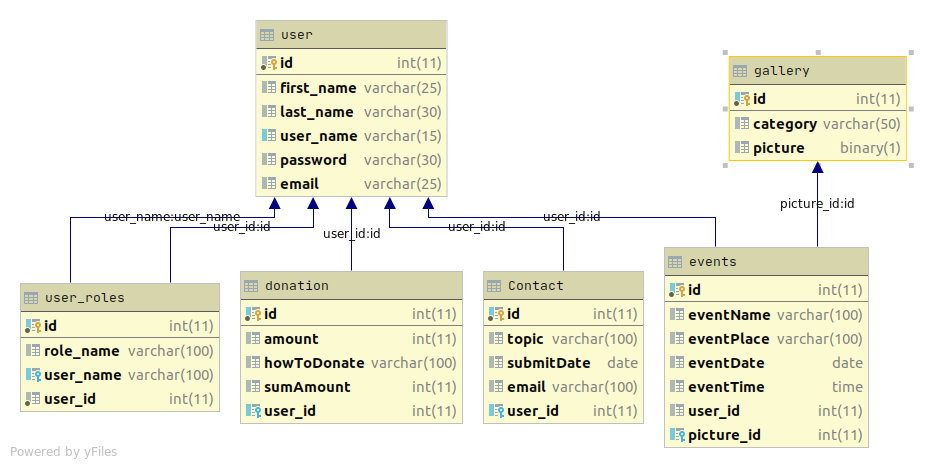
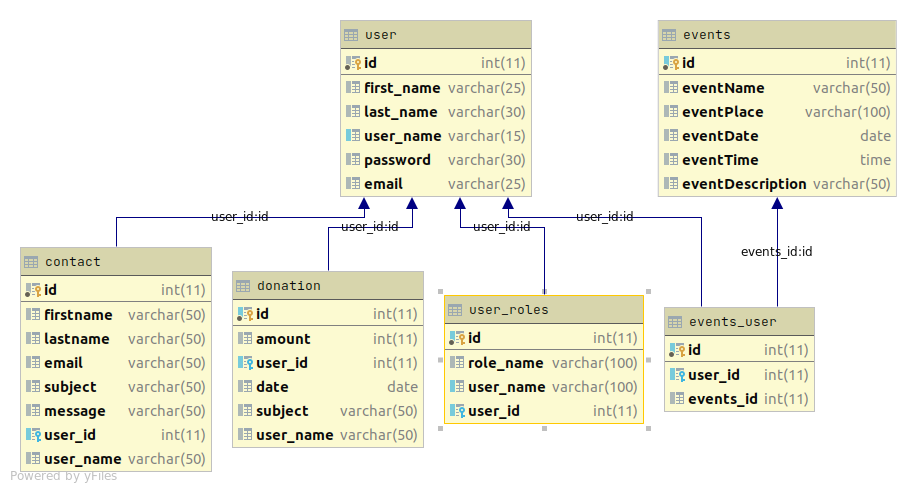
user add event

diff --git a/src/main/java/edu/matc/controller/JoinEvent.java b/src/main/java/edu/matc/controller/JoinEvent.java
@@ -1,5 +1,6 @@
 package edu.matc.controller;
 
+import com.api.SendEmailSMTP;
 import edu.matc.entity.Event;
 import edu.matc.entity.Event_User;
 import edu.matc.entity.User;
@@ -16,6 +17,7 @@ import javax.servlet.http.HttpServletRequest;
 import javax.servlet.http.HttpServletResponse;
 import javax.servlet.http.HttpSession;
 import java.io.IOException;
+import java.time.LocalDate;
 import java.util.List;
 @WebServlet(
         urlPatterns = {"/joinEventWithId"}
@@ -27,27 +29,40 @@ public class JoinEvent extends HttpServlet {
 
     @Override
     protected void doGet(HttpServletRequest req, HttpServletResponse resp) throws ServletException, IOException {
-        GenericDao<User> genericDaoUser = DaoFactory.createDao(User.class);
+        if(req.isUserInRole("user")) {
+            GenericDao<User> genericDaoUser = DaoFactory.createDao(User.class);
+            String currentUser = req.getRemoteUser();
+            List<User> users = genericDaoUser.getByPropertyEqual("userName", currentUser);
+            int id = users.get(0).getId();
+            logger.info("User class ID  " + id);
+            User retrievedUser = (User)genericDaoUser.getById(id);
 
-        logger.info("The logged in user: " + req.getRemoteUser() + "has a role of admin: " + req.isUserInRole("admin"));
+            GenericDao<Event> genericDao = DaoFactory.createDao(Event.class);
+            Event retrievedEvent = genericDao.getById(Integer.parseInt(req.getParameter("EditWithId")));
+            String date = String.valueOf(retrievedEvent.getEventDate());
+            String time = String.valueOf(retrievedEvent.getEventTime());
+            String place = retrievedEvent.getEventPlace();
+            String EventInfo = "Your event is on " + date + " @" + time+ " at " + place + "." ;
+            logger.info("Integer.parseInt(req.getParameter(\"EditWithId\")  " + Integer.parseInt(req.getParameter("EditWithId")));
 
-        String currentUser = req.getRemoteUser();
-        List<User> users = genericDaoUser.getByPropertyEqual("userName", currentUser);
-        int id = users.get(0).getId();
-        logger.info("User class ID  " + id);
-        User retrievedUser = (User)genericDaoUser.getById(id);
+            retrievedUser.getEventMany().add(retrievedEvent);
 
-        GenericDao<Event> genericDao = DaoFactory.createDao(Event.class);
-        Event retrievedEvent = genericDao.getById(Integer.parseInt(req.getParameter("EditWithId")));
+            GenericDao<Event_User> genericDaoMany = DaoFactory.createDao(Event_User.class);
+            Event_User eventUser = new Event_User(Integer.parseInt(req.getParameter("EditWithId")), id);
+            int newId = genericDaoMany.insert(eventUser);
 
-        logger.info("Integer.parseInt(req.getParameter(\"EditWithId\")  " + Integer.parseInt(req.getParameter("EditWithId")));
+            // send email to the user
+            SendEmailSMTP send = new SendEmailSMTP();
+            send.getInfo("Thank for joining an event with us", EventInfo);
+            logger.info("Email was sent");
+            String message = "Thank for joining an event with us, you will receive an email to confirm your event";
+            req.setAttribute("message", message);
 
-        retrievedUser.getEventMany().add(retrievedEvent);
+        } else {
+            String message = "Please sign in to join an event";
+            req.setAttribute("message", message);
+        }
 
-        GenericDao<Event_User> genericDaoMany = DaoFactory.createDao(Event_User.class);
-
-        Event_User eventUser = new Event_User(Integer.parseInt(req.getParameter("EditWithId")), id);
-        int newId = genericDaoMany.insert(eventUser);
 
 
         RequestDispatcher dispatcher = req.getRequestDispatcher("/joinAnEvent.jsp");

diff --git a/src/main/java/edu/matc/controller/AdminPage.java b/src/main/java/edu/matc/controller/AdminPage.java
@@ -1,10 +1,7 @@
 package edu.matc.controller;
 
 
-import edu.matc.entity.Contact;
-import edu.matc.entity.Donation;
-import edu.matc.entity.Event;
-import edu.matc.entity.User;
+import edu.matc.entity.*;
 import edu.matc.persistence.GenericDao;
 import edu.matc.util.DaoFactory;
 import org.apache.logging.log4j.LogManager;
@@ -45,6 +42,7 @@ public class AdminPage extends HttpServlet {
         List<Event> allEvents = daoEvent.getAll();
         req.setAttribute("events", allEvents);
         logger.debug("Sending back the event/s..." + allEvents);
+
 
         // get all donations
         GenericDao<Donation> daoDonation = DaoFactory.createDao(Donation.class);

diff --git a/src/main/java/edu.matc.entity/Event.java b/src/main/java/edu.matc.entity/Event.java
@@ -55,7 +55,7 @@ public class Event { // @OneToMany
     private String eventDescription;
 
 
-    @ManyToMany(mappedBy = "eventMany", cascade = { CascadeType.ALL })
+    @ManyToMany(mappedBy = "eventMany")
 
     public Set<User> userMany = new HashSet<>();
 
